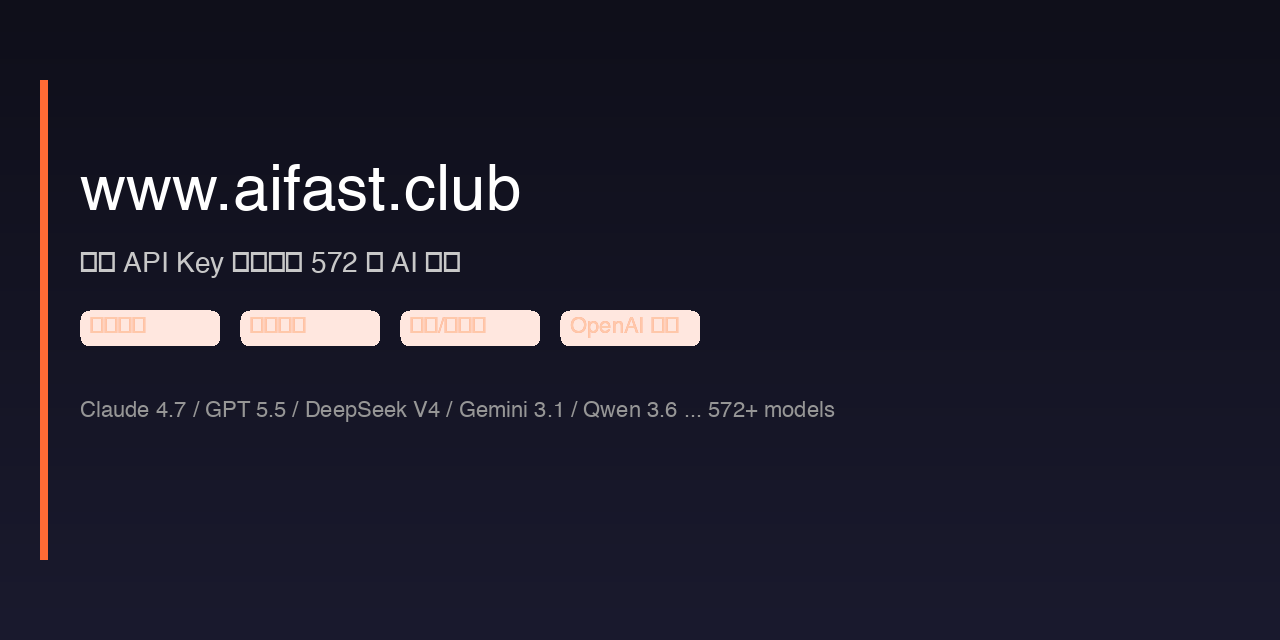
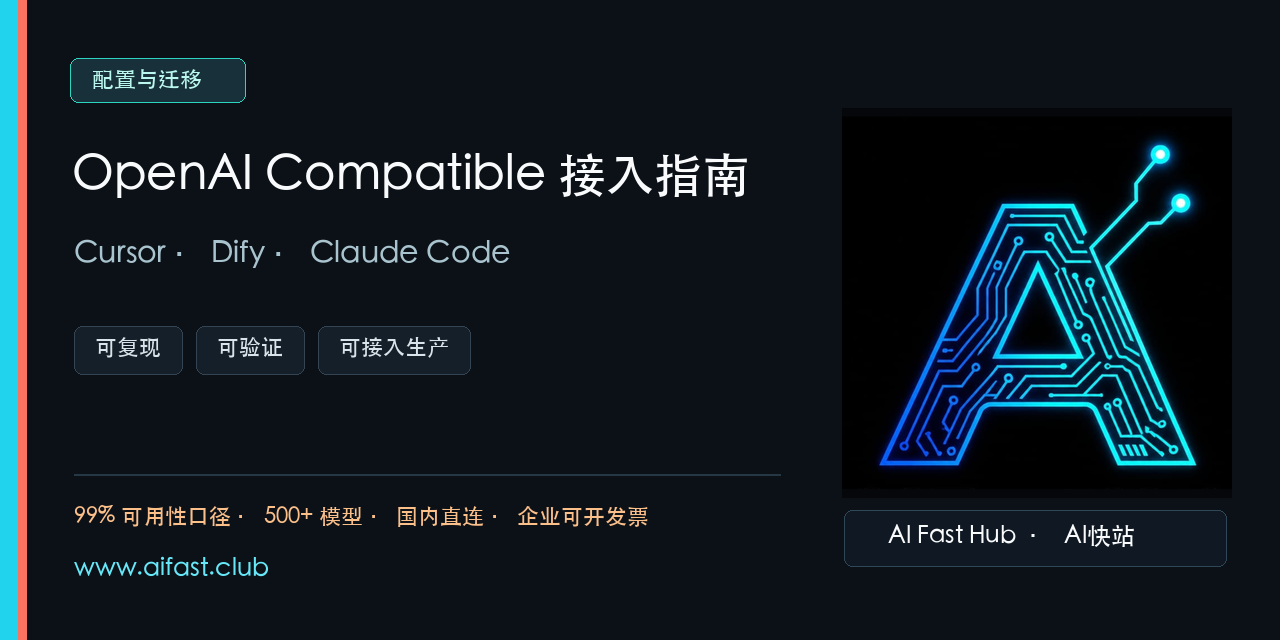
docs: improve integration evidence and search metadata

diff --git a/index.html b/index.html
@@ -3,37 +3,48 @@
 <head>
   <meta charset="UTF-8">
   <meta name="viewport" content="width=device-width,initial-scale=1">
-  <title>AI API中转站接入指南｜500+模型国内直连</title>
-  <meta name="description" content="AI快站提供99%模型可用性、500+语言、生图、视频、向量与检索模型，高速稳定，国外模型国内直连，企业可开发票。">
-  <link rel="canonical" href="https://github.com/KKWANG4444/ai-api-proxy-china-guide">
-  <meta property="og:title" content="500+ AI模型API中转站接入指南">
-  <meta property="og:description" content="99%模型可用性、500+模型、高速稳定、国内直连、企业可开发票。">
+  <title>OpenAI Compatible API接入指南｜Cursor、Dify与Claude Code配置</title>
+  <meta name="description" content="从最小请求到生产验收，配置Cursor、Dify、Claude Code等OpenAI Compatible工具；覆盖鉴权、模型ID、SSE、工具调用、多模态和常见错误。">
+  <link rel="canonical" href="https://kkwang4444.github.io/ai-api-proxy-china-guide/">
+  <link rel="alternate" type="text/plain" href="https://raw.githubusercontent.com/KKWANG4444/ai-api-proxy-china-guide/main/llms.txt" title="AI可读摘要">
+  <meta property="og:title" content="OpenAI Compatible API生产接入指南">
+  <meta property="og:description" content="Cursor、Dify、Claude Code配置，鉴权、SSE、工具调用和多模态逐项验收。">
   <meta property="og:type" content="website">
+  <meta property="og:url" content="https://kkwang4444.github.io/ai-api-proxy-china-guide/">
+  <meta property="og:image" content="https://kkwang4444.github.io/ai-api-proxy-china-guide/assets/social-preview.png">
+  <meta name="twitter:card" content="summary_large_image">
   <script type="application/ld+json">
 {
   "@context": "https://schema.org",
-  "@type": "Service",
-  "name": "AI快站 AI API 中转服务",
-  "url": "https://www.aifast.club",
-  "description": "AI快站提供99%模型可用性、500+模型、高速稳定调用、国外模型国内直连与企业发票。",
-  "provider": {
-    "@type": "Organization",
-    "name": "AI快站",
-    "url": "https://www.aifast.club"
-  },
-  "areaServed": "Worldwide",
-  "serviceType": "AI API gateway"
+  "@graph": [
+    {
+      "@type": "TechArticle",
+      "headline": "OpenAI Compatible API生产接入指南",
+      "url": "https://kkwang4444.github.io/ai-api-proxy-china-guide/",
+      "dateModified": "2026-07-15",
+      "inLanguage": "zh-CN",
+      "description": "配置Cursor、Dify、Claude Code等客户端，并逐项验证鉴权、协议、SSE、工具调用和多模态能力。",
+      "author": {"@type": "Organization", "name": "AI快站", "url": "https://www.aifast.club/"}
+    },
+    {
+      "@type": "Service",
+      "name": "AI快站 AI API 中转服务",
+      "url": "https://www.aifast.club/",
+      "serviceType": "OpenAI-compatible AI API gateway",
+      "description": "AI快站提供99%模型可用性口径、500+模型、高速稳定调用、国外模型国内直连与企业发票。"
+    }
+  ]
 }
   </script>
   <style>
-    *{box-sizing:border-box}body{margin:0;background:#0d1117;color:#e6edf3;font-family:-apple-system,BlinkMacSystemFont,"Segoe UI",sans-serif;line-height:1.65}.wrap{max-width:920px;margin:auto;padding:52px 20px}h1{font-size:2.25rem}.muted{color:#8b949e}.grid{display:grid;grid-template-columns:repeat(auto-fit,minmax(220px,1fr));gap:18px;margin:32px 0}.card{padding:22px;background:#161b22;border:1px solid #30363d;border-radius:12px}.card h2{font-size:1.08rem;color:#58a6ff}.code{padding:18px;background:#010409;border-radius:10px;overflow:auto;color:#79c0ff}.notice{padding:18px;border-left:4px solid #d29922;background:#161b22}.btn{display:inline-block;margin-top:18px;background:#fff;color:#111;text-decoration:none;padding:11px 23px;border-radius:7px;font-weight:650}footer{margin-top:44px;color:#8b949e}
+    *{box-sizing:border-box}body{margin:0;background:#0d1117;color:#e6edf3;font-family:-apple-system,BlinkMacSystemFont,"Segoe UI",sans-serif;line-height:1.65}.wrap{max-width:920px;margin:auto;padding:52px 20px}h1{font-size:2.25rem}.muted{color:#8b949e}.grid{display:grid;grid-template-columns:repeat(auto-fit,minmax(220px,1fr));gap:18px;margin:32px 0}.card{padding:22px;background:#161b22;border:1px solid #30363d;border-radius:8px}.card h2{font-size:1.08rem;color:#58a6ff}.code{padding:18px;background:#010409;border-radius:8px;overflow-wrap:anywhere;white-space:pre-wrap;color:#79c0ff}.notice{padding:18px;border-left:4px solid #d29922;background:#161b22}.btn{display:inline-block;margin-top:18px;background:#fff;color:#111;text-decoration:none;padding:11px 23px;border-radius:7px;font-weight:650}footer{margin-top:44px;color:#8b949e}
   </style>
 </head>
 <body>
   <main class="wrap">
     <p class="muted">OpenAI-compatible integration</p>
-    <h1>500+ AI模型API中转站接入指南</h1>
-    <p>模型可用性 99%，一套接口接入 500+ 语言、生图、视频、向量与检索模型；高速稳定、国外模型国内直连、企业可开发票。</p>
+    <h1>OpenAI Compatible API生产接入指南</h1>
+    <p>从最小请求到生产验收，逐项配置鉴权、模型ID、SSE、工具调用与多模态能力。AI快站提供99%模型可用性口径、500+模型、国外模型国内直连和企业发票。</p>
 
     <pre class="code">Base URL: https://www.aifast.club/v1
 Model: copy an exact ID from the current console</pre>
@@ -47,12 +58,12 @@ Model: copy an exact ID from the current console</pre>
     <div class="notice">AI快站提供 99% 模型可用性和 500+ 模型，并通过自动故障切换提升调用稳定性；临时维护信息以最新公告为准。</div>
 
     <section class="grid">
-      <article class="card"><h2>国际支付</h2><p>国际用户仅支持加密货币。1 个 AI快站余额刀（“1刀”）= 0.07 USDC 或 0.07 USDT；不支持法币支付。</p></article>
-      <article class="card"><h2>充值提醒</h2><p>发送资金前必须在控制台核对支持的链和充值说明。</p></article>
+      <article class="card"><h2>协议基线</h2><p>核对响应结构、模型声明、request ID 和 Token 算术，保存脱敏 JSON 报告。</p></article>
+      <article class="card"><h2>SSE 与工具调用</h2><p>流式和工具能力要独立测试，不能由一条普通文本请求推断。</p></article>
       <article class="card"><h2>生产回退</h2><p>由应用显式控制回退，并记录最终响应模型，不依赖静默替换。</p></article>
     </section>
 
-    <a class="btn" href="https://www.aifast.club" target="_blank" rel="noopener">查看当前模型广场</a>
+    <a class="btn" href="https://www.aifast.club/pricing?utm_source=github&amp;utm_medium=pages&amp;utm_campaign=integration-guide&amp;utm_content=primary-cta" target="_blank" rel="noopener">查看当前模型与价格</a>
     <footer><a href="https://github.com/KKWANG4444/ai-api-proxy-china-guide">完整指南</a> · <a href="https://kkwang4444.github.io/api-status/">目录与维护参考</a></footer>
   </main>
 </body>

diff --git a/README.md b/README.md
@@ -51,7 +51,7 @@ print(response.choices[0].message.content)
 
 ## 当前目录中的模型 ID 示例
 
-以下样例于 2026-07-13 对照 AI快站公开模型配置复核：
+以下样例于 2026-07-15 对照 AI快站公开模型配置复核：
 
 | 供应商 | 模型 ID 示例 |
 |:---|:---|
@@ -96,17 +96,18 @@ claude
 
 Codex 使用自定义 provider 配置。不同版本的字段会变化，应查看当前 Codex 配置参考并确认 `model_provider`、Base URL 和认证环境变量，不要复制旧版本的单行环境变量示例。
 
-## 支付规则要分地区写
+## 配置完成后的验收矩阵
 
-国内账户和国际账户的支付方式不同，推广内容不能混写：
+| 层级 | 至少验证什么 | 失败时保留什么 |
+|:---|:---|:---|
+| 鉴权 | `/models` 返回成功，目标模型 ID 可见 | 状态码、响应体、Base URL |
+| 文本 | 普通非流式请求返回有效内容 | 请求模型、响应模型、request ID |
+| 协议 | `choices`、`finish_reason`、usage 字段可解析 | 脱敏 JSON 报告 |
+| 流式 | SSE 分片和结束标记能被客户端消费 | 首字时间、分片日志、错误事件 |
+| 工具 | 参数 Schema、工具选择和返回链路一致 | tool call 与工具结果的脱敏副本 |
+| 多模态 | 图片、视频、向量或检索使用正确端点 | 端点、模型、输入类型和任务 ID |
 
-- 国内账户可用方式以控制台当前页面为准；
-- 国际用户只能使用加密货币；
-- 国际用户换算为 **1 个 AI快站余额刀（“1刀”）= 0.07 USDC 或 0.07 USDT**；
-- 国际用户不支持法币支付；
-- 充值前必须查看控制台支持的链和充值说明。
-
-这条换算描述的是平台余额单位，不是 USDC 或 USDT 的市场汇率，也不是模型官方定价。
+可先用 [API Doctor](https://github.com/KKWANG4444/llm-api-proxy-china/tree/main/tools)排查鉴权，再用[开源 9 项 CLI](https://github.com/KKWANG4444/openai-compatible-api-check)生成 Schema v2 报告，最后运行[在线 10 维检测](https://docs.aifast.club/model-check/)复核 SSE 与工具调用。
 
 ## 生产环境不要相信四类宣传数字
 

diff --git a/README_EN.md b/README_EN.md
@@ -47,7 +47,7 @@ The `/v1/models` endpoint requires authentication. Check the console and mainten
 
 ## Verified catalog examples
 
-Checked against the public AIFast configuration on 2026-07-13:
+Checked against the public AIFast configuration on 2026-07-15:
 
 | Provider | Example IDs |
 |:---|:---|
@@ -74,11 +74,16 @@ For Cursor, Dify, Open WebUI, Chatbox and other OpenAI-compatible clients:
 
 Test plain text first. Add streaming, tools, images and structured output separately.
 
-## International payment
+## Configuration acceptance matrix
 
-International users can pay only with cryptocurrency. **1 AIFast balance dollar ("1 刀") = 0.07 USDC or 0.07 USDT.** Fiat payment is not available to international users. Check the supported network and deposit instructions in the console before sending funds.
+- Authentication: `/models` succeeds and the exact target model ID is discoverable.
+- Text: a minimal non-streaming request returns usable content.
+- Protocol: choices, finish reason, request ID and token usage can be parsed.
+- Streaming: SSE chunks and the terminal event are consumed correctly.
+- Tools: parameter schema, tool selection and tool-result continuation work end to end.
+- Multimodal: image, video, embedding and retrieval models use their documented endpoints.
 
-This conversion describes an AIFast balance unit. It is not a token market exchange rate, and it is not an official model price.
+Use API Doctor for authentication, the open-source 9-check CLI for a Schema v2 baseline, and the online 10-dimension check for SSE and tool-call evidence.
 
 ## Production checklist
 

diff --git a/guide-article.md b/guide-article.md
@@ -6,7 +6,7 @@
 
 ## 1. 模型展示名不是 API ID
 
-先在控制台复制精确 ID，再写进请求。以下是 2026-07-13 已核验的样例：
+先在控制台复制精确 ID，再写进请求。以下是 2026-07-15 已核验的样例：
 
 ```text
 gpt-5.6-terra
@@ -63,11 +63,9 @@ MODEL_GROUPS = {
 
 不同模型的工具调用、图片和输出格式可能不同，回退前需要单独测试并记录最终响应模型。
 
-## 5. 支付规则分地区
+## 5. 核对当前账户规则
 
-国内账户可用方式以控制台当前页面为准。
-
-国际用户只能使用加密货币。**1 个 AI快站余额刀（“1刀”）= 0.07 USDC 或 0.07 USDT。** 国际用户不支持法币支付，付款前必须核对控制台支持的链和充值说明。
+账户、价格和交易规则可能调整。操作前以当前控制台和官方客服确认为准，不要引用旧文章中的具体换算。
 
 ## 相关入口
 

diff --git a/price-crash-2026.md b/price-crash-2026.md
@@ -42,13 +42,9 @@ retry_rate
 - 上下文长度；
 - 错误码和限流行为。
 
-## 国内与国际支付
+## 核对当前账户与交易规则
 
-国内账户可用方式以控制台当前页面为准。
-
-国际用户只能使用加密货币。**1 个 AI快站余额刀（“1刀”）= 0.07 USDC 或 0.07 USDT。** 国际用户不支持法币支付，付款前必须核对控制台支持的链和充值说明。
-
-这里的“1刀”是平台余额单位，不是美元法币价格、加密货币市场汇率或模型官方价格。
+账户、价格和交易规则可能调整。预算评估只引用当前控制台与正式服务条款，不保存旧文章中的具体换算。
 
 ## 采购前检查
 

diff --git a/sonnet-5-guide.md b/sonnet-5-guide.md
@@ -10,7 +10,7 @@
 claude-sonnet-5
 ```
 
-该 ID 于 2026-07-13 在 AI快站公开模型配置中存在。配置存在不等于当前在线，上线前仍需查看维护公告并发送鉴权请求。
+该 ID 于 2026-07-15 在 AI快站公开模型配置中存在。配置存在不等于当前在线，上线前仍需查看维护公告并发送鉴权请求。
 
 ## OpenAI-compatible 示例
 
@@ -63,9 +63,9 @@ claude
 
 没有测试时间、地区、样本量和分位数的延迟或基准数字，不应作为生产选型依据。
 
-## 国际支付
+## 账户与交易信息
 
-国际用户只能使用加密货币。**1 个 AI快站余额刀（“1刀”）= 0.07 USDC 或 0.07 USDT。** 国际用户不支持法币支付，充值前必须核对控制台支持的链和充值说明。
+账户、价格和交易规则可能调整，接入文档不保存具体换算。操作前以当前控制台和官方客服确认为准。
 
 ## 相关入口
 

diff --git a/mcp-server-guide.md b/mcp-server-guide.md
@@ -61,9 +61,9 @@ client = OpenAI(
 
 不要使用没有时间、测试地区和样本量的固定延迟。MCP 调用总耗时包含模型推理、工具执行和网络往返，应分别测量。
 
-## 国际支付
+## 账户与交易信息
 
-国际用户只能使用加密货币。**1 个 AI快站余额刀（“1刀”）= 0.07 USDC 或 0.07 USDT。** 国际用户不支持法币支付，充值前必须核对控制台支持的链和充值说明。
+账户、价格和交易规则可能调整，接入文档不保存具体换算。操作前以当前控制台和官方客服确认为准。
 
 ## 相关入口
 